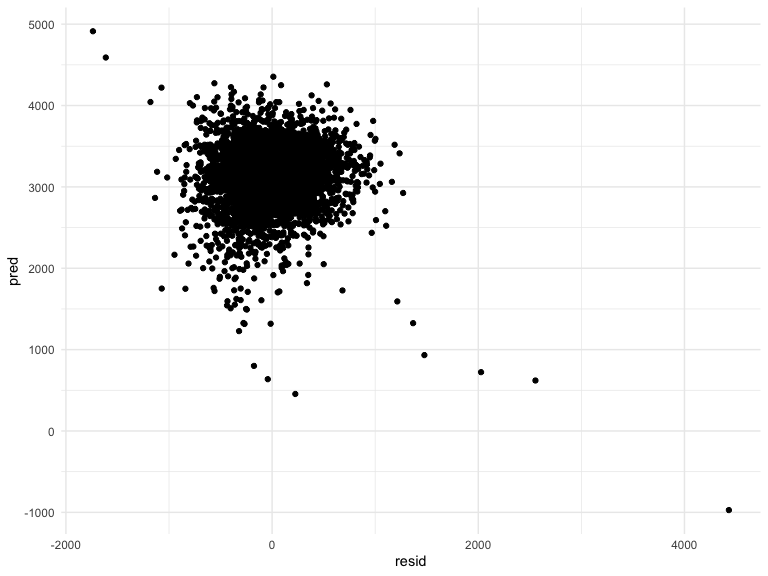
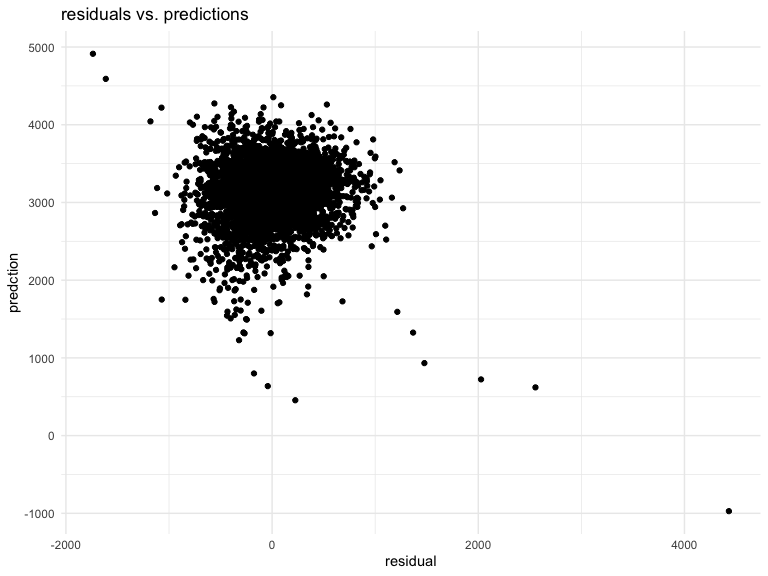
finish of problem 3

diff --git a/p8105_hw6_xc2472.md b/p8105_hw6_xc2472.md
@@ -96,7 +96,13 @@ to have a healthier baby. Thus, `fincome` is also included in the model.
 child_bw_data %>% 
   modelr::add_residuals(own_model) %>% 
   modelr::add_predictions(own_model) %>%
-  ggplot(aes(x = resid, y = pred)) + geom_point()
+  ggplot(aes(x = resid, y = pred)) + 
+  geom_point() + 
+  labs(
+    title = "residuals vs. predictions",
+    x = "residual",
+    y = "predction"
+  )
 ```
 
 <img src="p8105_hw6_xc2472_files/figure-gfm/unnamed-chunk-4-1.png" width="90%" />
@@ -133,7 +139,14 @@ cv_df %>%
     names_to = "model",
     values_to = "rmse"
   ) %>% 
-  ggplot(aes(x = model, y = rmse)) + geom_violin()
+  mutate(
+    model = recode(model, "rmse_own" = "own model", "rmse_main" = "model with only main effects", "rmse_interact" = "model with interactions")
+  ) %>% 
+  ggplot(aes(x = model, y = rmse)) + 
+  geom_violin() + 
+  labs(
+    title = "model comparison"
+  )
 ```
 
 <img src="p8105_hw6_xc2472_files/figure-gfm/unnamed-chunk-5-1.png" width="90%" />
@@ -156,41 +169,46 @@ weather_df =
   select(name, id, everything())
 ```
 
-    ## Registered S3 method overwritten by 'crul':
-    ##   method                 from
-    ##   as.character.form_file httr
-
-    ## Registered S3 method overwritten by 'hoardr':
-    ##   method           from
-    ##   print.cache_info httr
-
-    ## file path:          /Users/xingchen/Library/Caches/rnoaa/ghcnd/USW00094728.dly
-
-    ## file last updated:  2019-09-30 21:24:54
-
-    ## file min/max dates: 1869-01-01 / 2019-09-30
-
 ### bootstrap
+
+**Build the bootstrap**
 
 ``` r
 weather_bootstrap = 
   weather_df %>% 
   modelr::bootstrap(n = 5000) 
+```
 
-weather_bootstrap %>% 
+**Identify the distribution and 95% CI of r-square**
+
+``` r
+r_square = 
+  weather_bootstrap %>% 
   mutate(
     models = map(strap, ~lm(tmax ~ tmin, data = .x)),
     results = map(models, broom::glance)
   ) %>% 
   select(.id, results) %>% 
-  unnest(results) %>% 
+  unnest(results) 
+
+quantile(r_square$r.squared, probs = c(0.025, 0.975))
+```
+
+    ##      2.5%     97.5% 
+    ## 0.8941080 0.9271048
+
+``` r
+r_square %>% 
   ggplot(aes(x = r.squared)) + geom_density()
 ```
 
-<img src="p8105_hw6_xc2472_files/figure-gfm/unnamed-chunk-7-1.png" width="90%" />
+<img src="p8105_hw6_xc2472_files/figure-gfm/unnamed-chunk-8-1.png" width="90%" />
+
+**Identify the distribution and 95% CI of log(beta0 \* beta1)**
 
 ``` r
-weather_bootstrap %>% 
+log = 
+  weather_bootstrap %>% 
   mutate(
     models = map(strap, ~lm(tmax ~ tmin, data = .x)),
     results = map(models, broom::tidy)
@@ -203,8 +221,25 @@ weather_bootstrap %>%
   ) %>% 
   rename(intercept = `(Intercept)`) %>% 
   group_by(.id) %>% 
-  summarize(log_betas = log(intercept * tmin)) %>% 
+  summarize(log_betas = log(intercept * tmin))
+
+quantile(log$log_betas, probs = c(0.025, 0.975))
+```
+
+    ##     2.5%    97.5% 
+    ## 1.966286 2.059197
+
+``` r
+log %>% 
   ggplot(aes(x = log_betas)) + geom_density()
 ```
 
-<img src="p8105_hw6_xc2472_files/figure-gfm/unnamed-chunk-7-2.png" width="90%" />
+<img src="p8105_hw6_xc2472_files/figure-gfm/unnamed-chunk-9-1.png" width="90%" />
+
+**Description**
+
+A clearly left skew can be seen in the distribution of r square. The 95%
+CI of r square is (0.894, 0.927).
+
+The distribution of log(beta0 \* beta1) is approximately a normal
+distribution. The 95% CI of log(beta0 \* beta1) is (1.965, 2.058).
